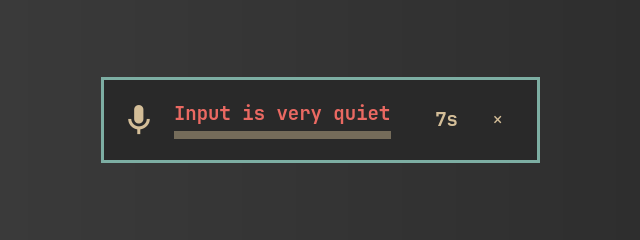
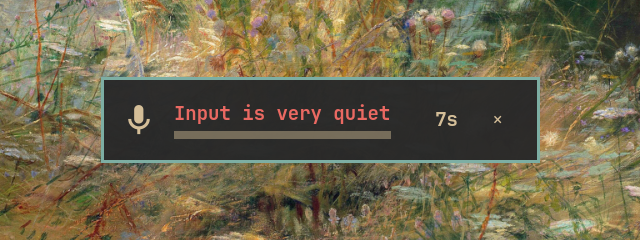
Show matching Omarchy wallpapers throughout preview demos

diff --git a/docs/media/README.md b/docs/media/README.md
@@ -2,8 +2,9 @@
 
 These assets show the actual `Dictation.qml` component from the development
 preview on a clean private Wayland desktop. The capture includes no Infomarchy,
-bar, personal windows or wallpaper from another creator. The desktop background
-is an original gradient derived from each theme's background color.
+bar or personal windows. The desktop uses each theme's matching wallpaper from
+the installed Omarchy 4.0.5 package. Popup colors and wallpaper switch together
+through Hackerman, Catppuccin Latte and Gruvbox.
 
 The level summaries and recording/processing transitions are scripted for a
 repeatable UI demonstration. The animation shows recording levels, persistent
@@ -28,12 +29,31 @@ The preview uses the shared 16-pixel font base size. Geometry and typography
 come from the installed Omarchy components and theme tokens. The plugin source
 was not restyled for the captures.
 
+## Wallpaper sources
+
+The captures use these installed Omarchy backgrounds, with aspect-preserving
+cropping to the clean desktop output:
+
+| Theme | Wallpaper from Omarchy 4.0.5 |
+| --- | --- |
+| Hackerman | [1-synth-scape.jpg](https://github.com/omacom/omarchy/blob/94a8fbc2d67eec5673c7f16b8c5e8a9c8452ffdc/themes/hackerman/backgrounds/1-synth-scape.jpg) |
+| Catppuccin Latte | [1-color-fade.png](https://github.com/omacom/omarchy/blob/94a8fbc2d67eec5673c7f16b8c5e8a9c8452ffdc/themes/catppuccin-latte/backgrounds/1-color-fade.png) |
+| Gruvbox | [1-the-backwater.jpg](https://github.com/omacom/omarchy/blob/94a8fbc2d67eec5673c7f16b8c5e8a9c8452ffdc/themes/gruvbox/backgrounds/1-the-backwater.jpg) |
+
+These are the first numbered backgrounds in the installed theme directories.
+The original wallpaper files are not bundled separately with this plugin; their
+appearance is included in the screenshots and demo captures. See
+[credits and provenance](../../THIRD_PARTY.md) and the retained
+[Omarchy MIT notice](../../licenses/omarchy-MIT.txt).
+
 ## Local video and capture work
 
 The 22-second H.264 MP4 is 1280 by 720 at 25 frames per second with no audio. A
 second MP4 uses an 800 by 360 crop for a closer view. Both exports, plus the GIF
 and WebP, are in `~/Videos/Luddite-Voice-OSD/`. Full desktop and cropped PNGs are
-in `~/Pictures/Luddite-Voice-OSD/`.
+in `~/Pictures/Luddite-Voice-OSD/`. The video with matching wallpapers is also
+named `demo-wallpapers.mp4` for easy review. Earlier plain-background exports
+are retained in each folder's `archive/plain-background/` directory.
 
 The capture harness and asset hashes remain in ignored `.work/media/` rather
 than shipping a media-generation environment with the installed plugin. The

diff --git a/docs/development.md b/docs/development.md
@@ -254,3 +254,20 @@ marketplace's submission guide, Productivity category and ai/quickshell/hyprland
 tags. The proposed plugin ID is absent from the current registry, and no duplicate
 submission issue was found. The draft describes the scripted demonstration media. The user requested
 preparation; no marketplace issue or release was created.
+
+
+## October 19, 2026 — matching theme wallpapers in preview media
+
+Replaced the original plain-gradient media with captures using the installed
+Omarchy wallpaper for each demonstrated theme: Hackerman's synth landscape,
+Catppuccin Latte's color fade, and Gruvbox's The Backwater. The background and
+popup theme now switch together in the same frame. Each wallpaper is checked as
+loaded before taking static captures, and the full demo is rendered with the
+same 22-second timing and 640-by-240 animation crop as before.
+
+Regenerated all stills, the looping GIF/WebP and both MP4 exports. Reviewed a
+contact sheet spanning recording, processing, idle and each theme transition.
+The capture remains isolated, with no Infomarchy, bar or personal windows.
+The matching wallpaper sources are credited in the media documentation. Earlier
+plain-background assets remain archived locally. No plugin code, desktop theme,
+audio configuration or runtime behavior changed for this media update.

diff --git a/THIRD_PARTY.md b/THIRD_PARTY.md
@@ -55,3 +55,9 @@ TechLuddite's [Luddite PXE Dust](https://github.com/TechLuddite/luddite-pxe-dust
 [Omarchy plugin marketplace](https://github.com/omacom/omarchy-plugin-marketplace)
 provide the external CI scanners. Their source is fetched at pinned commits in
 CI rather than bundled into this plugin.
+
+
+Preview screenshots and animations include the matching Hackerman, Catppuccin
+Latte and Gruvbox wallpapers supplied with Omarchy 4.0.5. Their source files are
+linked in [the media credits](docs/media/README.md#wallpaper-sources). Full
+wallpaper files are not bundled as standalone plugin assets.

diff --git a/README.md b/README.md
@@ -41,7 +41,8 @@ Omarchy x86-64 desktop with Voxtype 1.1.1. See
 ![Animated recording, processing, dismissal and theme changes](docs/media/demo.gif)
 
 The animation shows the real plugin UI with scripted input levels and phases
-on a clean desktop. [More theme examples and media details](docs/media/README.md).
+on a clean desktop with matching Omarchy wallpapers.
+[More theme examples and media details](docs/media/README.md).
 
 ## Requirements
 
